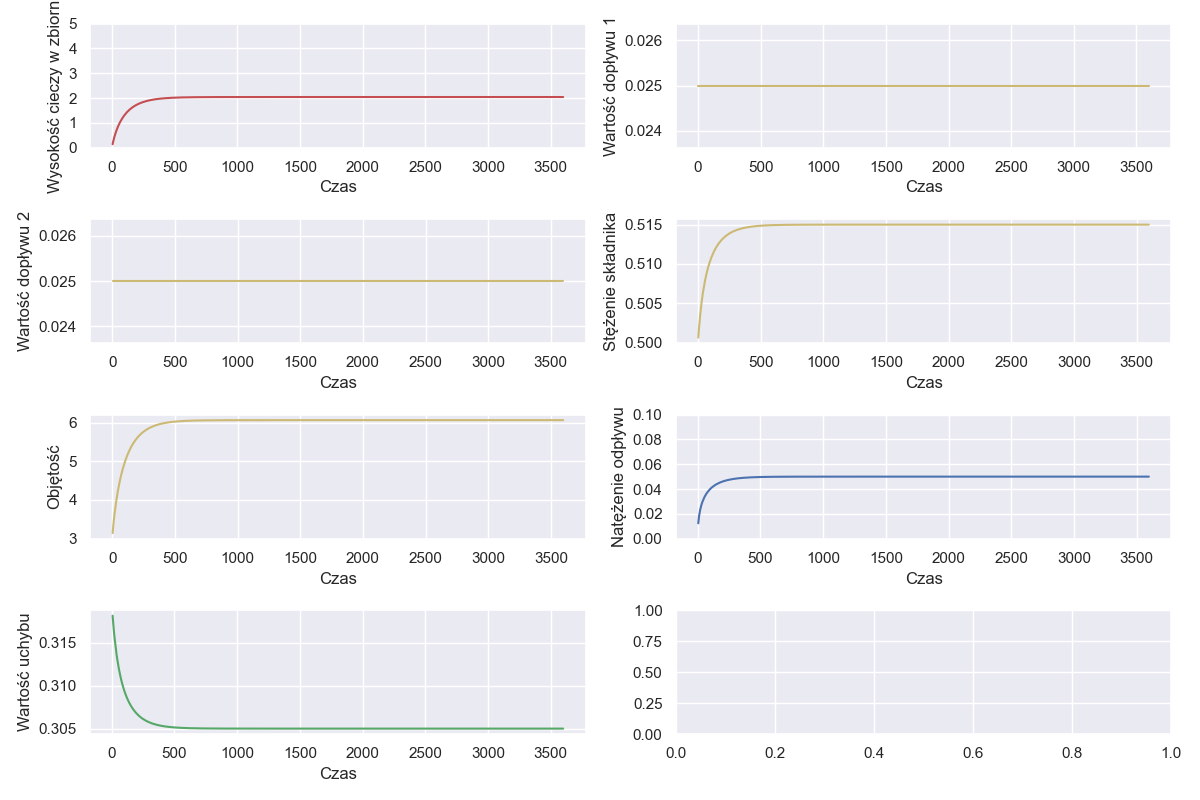
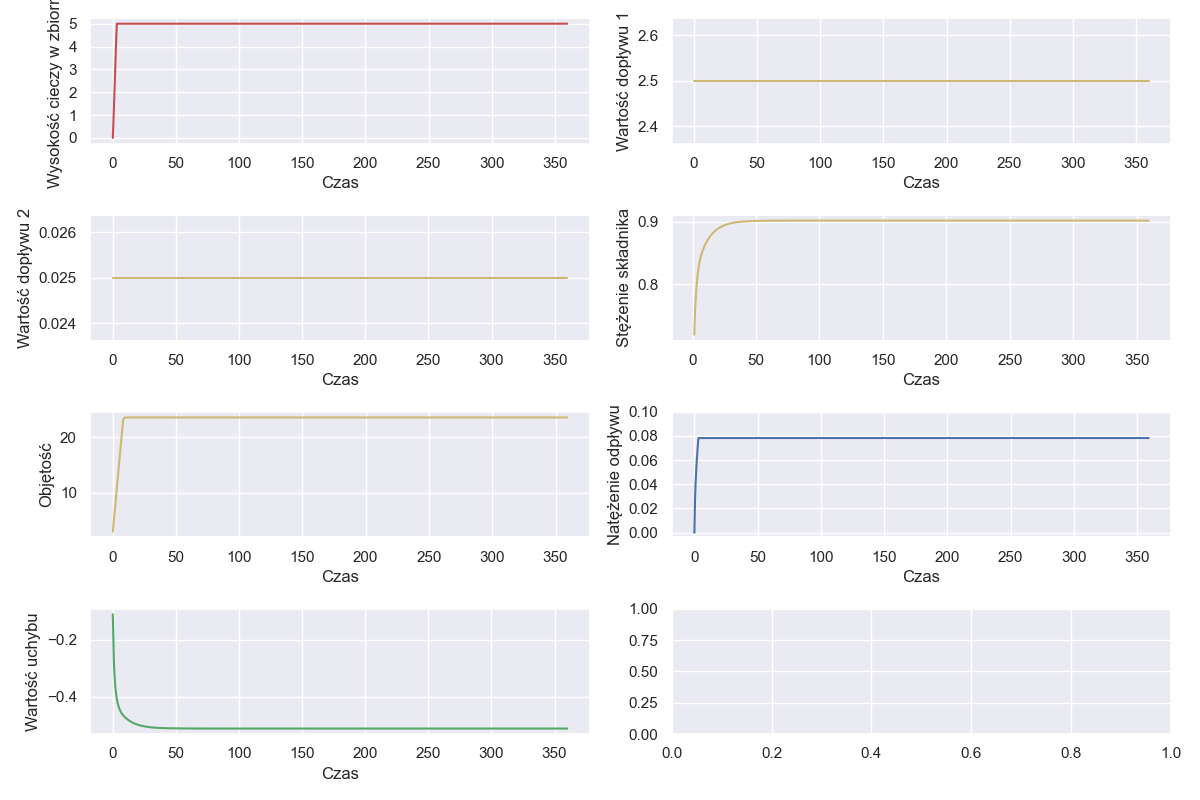
first commit

diff --git a/templates/p_regulator.html b/templates/p_regulator.html
@@ -28,6 +28,20 @@
                 <input type="number" name="amountInputIn" min="0.0" max="5.0" step="0.1" value="0.0" oninput="this.form.amountRangeIn.value=this.value" />
             </div>
         </div>
+          <div class="col-auto">
+          <div>
+                <label for="dist">Zakłócenie</label><br>
+                <input type="range" name="amountDistRangeIn" id="dist" min="-0.09" max="0.09" step="0.01" value="0.0" oninput="this.form.amountDistInputIn.value=this.value" />
+                <input type="number" name="amountDistInputIn" min="-0.09" max="0.09" step="0.01" value="0.0" oninput="this.form.amountDistRangeIn.value=this.value" />
+            </div>
+        </div>
+                    <div class="col-auto">
+          <div>
+                <label for="dist_time">W której jednostce czasu</label><br>
+                <input type="range" name="amountDistTimeRangeIn" id="dist_time" min="1.0" step="1.0" max="3599.0" value="1" oninput="this.form.amountDistTimeInputIn.value=this.value" />
+                <input type="number" name="amountDistTimeInputIn" min="1.0" step="1.0" max="3599.0" value="1" oninput="this.form.amountDistTimeRangeIn.value=this.value" />
+            </div>
+        </div>
           <div class="col-auto" style="margin-top:30px;">
                <input type = "button" id = "mybutton" value = "Symulacja" />
           </div>
@@ -43,12 +57,16 @@
      $(function() { $("#mybutton").click(function (event) {
          var result = null;
          var hsp = document.getElementById("d_name").value;
+         var dist= document.getElementById("dist").value;
+         var dist_time= document.getElementById("dist_time").value;
          var URL = "/p_regulator_execute";
          $.ajax({
             url: URL,
             type: 'get',
             data: {
-            "hsp":hsp
+            "hsp":hsp,
+            "dist":dist,
+            "dist_time":dist_time
             },
             dataType: 'html',
             async: false,

diff --git a/main.py b/main.py
@@ -1,5 +1,6 @@
 import math
-
+import skfuzzy as fuzz
+from skfuzzy import control as ctrl
 from flask import Flask, send_file, render_template
 from flask_bootstrap import Bootstrap
 from flask_nav import Nav
@@ -21,7 +22,7 @@ nav = Nav()
 nav.register_element('top', topbar)
 
 # CONSTANTS
-T = 3600  # [s]
+T = 360  # [s]
 Tp = 0.1  # [s]
 A = 1.5  # [m]
 B = 0.035  # [m^3/s]
@@ -37,6 +38,7 @@ N = int(T/Tp) + 1
 # TABLES
 U = [0.0]    # zmienne do zaworu regulacyjnego
 e = [0.0]
+ce = [0.0]
 h = [0.0]
 q_in = [0.08]
 q_out = [0.0]
@@ -53,7 +55,144 @@ c_2 = [0.12]
 c = [0.5]
 q_in_1 = [0.025]
 q_in_2 = [0.025]
+przedzialy_uchyb=[[-1.0,-1.0,-0.5],[-1.0,-0.5,0],[-0.5,0,0.5],[0,0.5,1.0],[0.5,1.0,1.0]]
+przedzialy_c_uchyb=[[-2.0,-2.0,-1.0],[-2.0,-1.0,0],[-1.0,0,1.0],[0,1.0,2.0],[1.0,2.0,2.0]]
+przedzialy=[[0,0,1.25],[0,1.25,2.5],[1.25,2.5,3.75],[2.5,3.75,5.0],[3.75,5.0,5.0]]
+mu_e=[]
+mu_ce=[]
+mu_przedzialy=[]
+table=[ [0, 0, 0, 1, 2],
+        [0, 0, 1, 2, 3],
+        [0,	1, 2, 3, 4],
+        [1,	2, 3, 4, 4],
+        [2,	3, 4, 4, 4]]
 
+
+def fuzzy(e,ce):
+    for i in range(len(przedzialy_uchyb)):
+        if e >= przedzialy_uchyb[i][0] and e <= przedzialy_uchyb[i][2]:
+            x=(przedzialy_uchyb[i][2]-e)/(przedzialy_uchyb[i][2]-przedzialy_uchyb[i][1])
+            y=(e-przedzialy_uchyb[i+1][0])/(przedzialy_uchyb[i+1][1]-przedzialy_uchyb[i+1][0])
+            mu_e.append({"value":x,"index":i})
+            mu_e.append({"value":y,"index":i+1})
+            break
+    for i in range(len(przedzialy_c_uchyb)):
+        if ce >= przedzialy_c_uchyb[i][0] and ce <= przedzialy_c_uchyb[i][2]:
+            x=(przedzialy_c_uchyb[i][2]-ce)/(przedzialy_c_uchyb[i][2]-przedzialy_c_uchyb[i][1])
+            y=(ce-przedzialy_c_uchyb[i+1][0])/(przedzialy_c_uchyb[i+1][1]-przedzialy_c_uchyb[i+1][0])
+            mu_ce.append({"value":x,"index":i})
+            mu_ce.append({"value":y,"index":i+1})
+            break
+    r_1 = min(mu_e[0]["value"],mu_ce[0]["value"])
+    r_2 = min(mu_e[1]["value"],mu_ce[0]["value"])
+    r_3 = min(mu_e[0]["value"],mu_ce[1]["value"])
+    r_4 = min(mu_e[1]["value"],mu_ce[1]["value"])
+
+
+    mu_przedzialy.append({"value":r_1,"index":table[mu_e[0]["index"]][mu_ce[0]["index"]]})
+    mu_przedzialy.append({"value":r_2,"index":table[mu_e[1]["index"]][mu_ce[0]["index"]]})
+    mu_przedzialy.append({"value":r_3,"index":table[mu_e[0]["index"]][mu_ce[1]["index"]]})
+    mu_przedzialy.append({"value":r_4,"index":table[mu_e[1]["index"]][mu_ce[1]["index"]]})
+
+    for i in range(len(mu_przedzialy)-1):
+        if mu_przedzialy[i]["index"]==mu_przedzialy[i+1]["index"]:
+            var=max(mu_przedzialy[i]["value"],mu_przedzialy[i+1]["value"])
+            mu_przedzialy[i]["value"]=var
+            mu_przedzialy[i+1]["value"]=var
+    max_u=mu_przedzialy[0]
+    for  i in range(len(mu_przedzialy)):
+        if mu_przedzialy[i]["value"]>max_u["value"]:
+            max_u=mu_przedzialy[i]
+
+    y_max=(przedzialy[max_u["index"]][2]-przedzialy[max_u["index"]][1])*(1-max_u["value"])+przedzialy[max_u["index"]][1]
+    y_min=max(przedzialy[max_u["index"]][1]-((przedzialy[max_u["index"]][1]-przedzialy[max_u["index"]][0])*(1-max_u["value"])),0)
+    if max_u["index"]==4:
+        u=y_min
+    else:
+        u=(y_max+y_min)/2
+    return u
+
+
+
+# e_pred = ctrl.Antecedent(np.arange(-1, 1, 0.0001), 'e')
+# ce_pred = ctrl.Antecedent(np.arange(-2, 2, 0.0001), 'ce')
+# u_in_pred = ctrl.Consequent(np.arange(0, 5.01, 0.0001), 'U')
+# e_pred.automf(3)
+# ce_pred.automf(3)
+# u_in_pred.automf(3)
+# # u_in_pred['poor'] = fuzz.trimf(u_in_pred.universe, [0, 0, 1.5])
+# # u_in_pred['mediocre'] = fuzz.trimf(u_in_pred.universe, [0, 1.5, 2.5])
+# # u_in_pred['average'] = fuzz.trimf(u_in_pred.universe, [1.5, 2.5, 3.5])
+# # u_in_pred['decent'] = fuzz.trimf(u_in_pred.universe, [2.5, 3.5, 5])
+# # u_in_pred['good'] = fuzz.trimf(u_in_pred.universe, [3.5, 5 , 5 ])
+# rule1 = ctrl.Rule(e_pred['poor'] | ce_pred['poor'], u_in_pred['poor'])
+# # rule2 = ctrl.Rule(e_pred['poor'] | ce_pred['mediocre'], u_in_pred['poor'])
+# rule3 = ctrl.Rule(e_pred['poor'] | ce_pred['average'], u_in_pred['poor'])
+# # rule4 = ctrl.Rule(e_pred['poor'] | ce_pred['decent'], u_in_pred['mediocre'])
+# rule5 = ctrl.Rule(e_pred['poor'] | ce_pred['good'], u_in_pred['average'])
+#
+# # rule6 = ctrl.Rule(e_pred['mediocre'] | ce_pred['poor'], u_in_pred['poor'])
+# # rule7 = ctrl.Rule(e_pred['mediocre'] | ce_pred['mediocre'], u_in_pred['poor'])
+# # rule8 = ctrl.Rule(e_pred['mediocre'] | ce_pred['average'], u_in_pred['mediocre'])
+# # rule9 = ctrl.Rule(e_pred['mediocre'] | ce_pred['decent'], u_in_pred['average'])
+# # rule10 = ctrl.Rule(e_pred['mediocre'] | ce_pred['good'], u_in_pred['decent'])
+#
+# rule11 = ctrl.Rule(e_pred['average'] | ce_pred['poor'], u_in_pred['poor'])
+# # rule12 = ctrl.Rule(e_pred['average'] | ce_pred['mediocre'], u_in_pred['mediocre'])
+# rule13 = ctrl.Rule(e_pred['average'] | ce_pred['average'], u_in_pred['average'])
+# # rule14 = ctrl.Rule(e_pred['average'] | ce_pred['decent'], u_in_pred['decent'])
+# rule15 = ctrl.Rule(e_pred['average'] | ce_pred['good'], u_in_pred['good'])
+#
+# # rule16 = ctrl.Rule(e_pred['decent'] | ce_pred['poor'], u_in_pred['mediocre'])
+# # rule17 = ctrl.Rule(e_pred['decent'] | ce_pred['mediocre'], u_in_pred['average'])
+# # rule18 = ctrl.Rule(e_pred['decent'] | ce_pred['average'], u_in_pred['decent'])
+# # rule19 = ctrl.Rule(e_pred['decent'] | ce_pred['decent'], u_in_pred['good'])
+# # rule20 = ctrl.Rule(e_pred['decent'] | ce_pred['good'], u_in_pred['good'])
+#
+# rule21 = ctrl.Rule(e_pred['good'] | ce_pred['poor'], u_in_pred['average'])
+# # rule22 = ctrl.Rule(e_pred['good'] | ce_pred['mediocre'], u_in_pred['decent'])
+# rule23 = ctrl.Rule(e_pred['good'] | ce_pred['average'], u_in_pred['good'])
+# # rule24 = ctrl.Rule(e_pred['good'] | ce_pred['decent'], u_in_pred['good'])
+# rule25 = ctrl.Rule(e_pred['good'] | ce_pred['good'], u_in_pred['good'])
+# u_in_ctrl = ctrl.ControlSystem([rule1, rule3,rule5,rule11,
+#                                 rule13,  rule15,rule21,  rule23,rule25])
+# # u_in_ctrl = ctrl.ControlSystem([rule1, rule2, rule3,rule4,rule5, rule6, rule7,rule8,rule9, rule10, rule11,rule12,
+# #                                 rule13, rule14, rule15,rule16,rule17, rule18, rule19,rule20,rule21, rule22, rule23,rule24,rule25])
+# u_in = ctrl.ControlSystemSimulation(u_in_ctrl)
+#
+# u_in.input['e'] = 0.99
+# u_in.input['ce'] =1.99
+#
+# u_in.compute()
+# print(u_in.output['U'])
+# u_in_pred.view(sim=u_in)
+
+# quality = ctrl.Antecedent(np.arange(-1.0, 1.0, 0.5), 'quality')
+# service = ctrl.Antecedent(np.arange(-2.0, 2.0, 0.5), 'service')
+# tip = ctrl.Consequent(np.arange(0.0, 5.5, 0.5), 'tip')
+
+# Auto-membership function population is possible with .automf(3, 5, or 7)
+# quality.automf(3)
+# service.automf(3)
+
+# Custom membership functions can be built interactively with a familiar,
+# Pythonic API
+# tip['poor'] = fuzz.trimf(tip.universe, [0, 0, 2.5])
+# tip['average'] = fuzz.trimf(tip.universe, [0, 2.5, 5])
+# tip['good'] = fuzz.trimf(tip.universe, [2.5, 5, 5])
+# rule1 = ctrl.Rule(quality['poor'] | service['poor'], tip['poor'])
+# rule2 = ctrl.Rule(service['average'], tip['average'])
+# rule3 = ctrl.Rule(service['good'] | quality['good'], tip['good'])
+# tipping_ctrl = ctrl.ControlSystem([rule1, rule2, rule3])
+# tipping = ctrl.ControlSystemSimulation(tipping_ctrl)
+# tipping.input['quality'] = 0.3
+# tipping.input['service'] = 0.1
+
+# Crunch the numbers
+# tipping.compute()
+# print (tipping.output['tip'])
+# tip.view(sim=tipping)
+# plt.show()
 
 def refresh_tables():
     global U,e,h,q_in,q_out,t,q_in_1, q_in_2, u_pi_1, u_pi_2, e_1, e_2, V, c_1, c_2, c
@@ -90,28 +229,72 @@ def reg_pi(reg_list, e_list):
     reg_list.append(max(min(kp * (e_list[-1] + Tp * sum(e_list) / Ti), u_max), u_min))
     return reg_list
 
-def p_regulator(hsp):
+def p_regulator(hsp,dist,dist_time):
     global U, e, h, q_in, q_out, t
+    dist_in = True
+    if dist < 0.0:
+        dist_in= False
     refresh_tables()
     print("do")
+    print(dist_time)
     for n in range(1, N):
-        t.append(n * Tp)
-        e.append(hsp-h[n-1])
-        U=reg_pi(U,e)
-        q_in.append(q_in[n - 1])
-        h.append(min(max(Tp * (U[n-1] - q_out[n - 1]) / A + h[n-1], h_min), h_max))
+        if n >= (dist_time*10) and dist != 0.0:
+            t.append(n * Tp)
+            e.append(hsp - h[n - 1])
+            U = reg_pi(U, e)
+            if dist_in:
+                U[-1] += dist
+            q_in.append(q_in[n - 1])
 
-        q_out.append(B * sqrt(h[n - 1]))
+            h.append(min(max(Tp * (U[n - 1] - q_out[n - 1]) / A + h[n - 1], h_min), h_max))
+            if not dist_in:
+                q_out.append((B * sqrt(h[n - 1]))+abs(dist))
+            else:
+                q_out.append(B * sqrt(h[n - 1]))
+        else:
+            t.append(n * Tp)
+            e.append(hsp-h[n-1])
+            U=reg_pi(U,e)
+            q_in.append(q_in[n - 1])
+            h.append(min(max(Tp * (U[n-1] - q_out[n - 1]) / A + h[n-1], h_min), h_max))
+
+            q_out.append(B * sqrt(h[n - 1]))
     print("finish")
+
+
+
+
 
 def mixing(hsp):
     global U, e, h, q_in, q_out, t, q_in_1, q_in_2, u_pi_1, u_pi_2
+    refresh_tables()
+    csp=hsp
+    print("do")
+    for n in range(1, N):
+        print(n)
+        t.append(n * Tp)
+        e.append(csp-c[n-1])
+        ce.append(e[n]-e[n-1])
+        u_pi_1 = reg_pi(u_pi_1, e_1)
+        u_pi_2 = reg_pi(u_pi_2, e_2)
+        V.append(min(max((q_in_1[n - 1] + q_in_2[n - 1] - q_out[n - 1]) * Tp + V[n - 1], V_min), V_max))
+        q_in_1.append(fuzzy(e[n],ce[n]))
+        q_in_2.append(q_in_2[n - 1])
+        h.append(min(max(Tp * (q_in_1[n - 1] + q_in_2[n - 1] - q_out[n - 1]) / A + h[n - 1], h_min), h_max))
+        c.append((1.0 / V[n - 1]) * (q_in_1[n - 1] * (c_1[n - 1] - c[n - 1]) + (q_in_2[n - 1] * (c_2[n - 1] - c[n - 1]))) * Tp + c[n - 1])
+        c_1.append(c_1[n-1])
+        c_2.append(c_2[n-1])
+        q_out.append(B * sqrt(h[n - 1]))
+    print("finish")
+def reg_mixing(hsp):
+    global U, e, ce, h, q_in, q_out, t, q_in_1, q_in_2, u_pi_1, u_pi_2
     refresh_tables()
     csp=hsp
     for n in range(1, N):
 
         t.append(n * Tp)
         e.append(csp-c[n-1])
+        ce.append(e[n]-e[n-1])
         u_pi_1 = reg_pi(u_pi_1, e_1)
         u_pi_2 = reg_pi(u_pi_2, e_2)
         V.append(min(max((q_in_1[n - 1] + q_in_2[n - 1] - q_out[n - 1]) * Tp + V[n - 1], V_min), V_max))
@@ -123,19 +306,20 @@ def mixing(hsp):
         c_2.append(c_2[n-1])
         q_out.append(B * sqrt(h[n - 1]))
 
-
 app = Flask(__name__)
 
 @app.route('/no_regulator_execute',methods=['GET'])
 def no_regulator_execute():
     hsp = request.args.get('hsp')
     no_regulator(float(hsp))
-    return ("nothing")\
+    return ("nothing")
 
 @app.route('/p_regulator_execute',methods=['GET'])
 def p_regulator_execute():
     hsp = request.args.get('hsp')
-    p_regulator(float(hsp))
+    dist = request.args.get('dist')
+    dist_time = request.args.get('dist_time')
+    p_regulator(float(hsp),float(dist),int(dist_time))
     return ("nothing")
 
 @app.route('/mixing_execute',methods=['GET'])
@@ -186,7 +370,6 @@ def visualize():
     sns.lineplot(x = "Czas", y = "Wartość dopływu", data=i_plot.sample(1000), ax=ax[0,1] , color='y')
     o_sns=sns.lineplot(x = "Czas", y = "Natężenie odpływu", data=o_plot.sample(1000),  ax=ax[1,0], color='b')
     o_sns.set_yticks(np.arange(0.0,0.12,0.02))
-    print(e_plot.head(100))
     e_sns=sns.lineplot(x = "Czas", y = "Wartość uchybu", data=e_plot.sample(1000), ax=ax[1,1], color='g')
     e_sns.set_yticks(range(-5,6))
     fig.tight_layout()
@@ -214,7 +397,6 @@ def visualize_P():
     sns.lineplot(x = "Czas", y = "Wartość dopływu", data=i_plot.sample(1000), ax=ax[0,1] , color='y')
     o_sns=sns.lineplot(x = "Czas", y = "Natężenie odpływu", data=o_plot.sample(1000),  ax=ax[1,0], color='b')
     o_sns.set_yticks(np.arange(0.0,0.12,0.02))
-    print(e_plot.head(100))
     e_sns=sns.lineplot(x = "Czas", y = "Wartość uchybu", data=e_plot.sample(1000), ax=ax[1,1], color='g')
     e_sns.set_yticks(range(-5,6))
     fig.tight_layout()
@@ -247,7 +429,6 @@ def visualize_M():
     sns.lineplot(x = "Czas", y = "Objętość", data=v_plot.sample(1000), ax=ax[2,0] , color='y')
     o_sns=sns.lineplot(x = "Czas", y = "Natężenie odpływu", data=o_plot.sample(1000),  ax=ax[2,1], color='b')
     o_sns.set_yticks(np.arange(0.0,0.12,0.02))
-    print(e_plot.head(100))
     e_sns=sns.lineplot(x = "Czas", y = "Wartość uchybu", data=e_plot.sample(1000), ax=ax[3,0], color='g')
     fig.tight_layout()
 
@@ -260,4 +441,4 @@ def visualize_M():
 
 
 if __name__ == "__main__":
-    app.run(debug=True)
+    app.run(debug=False)
